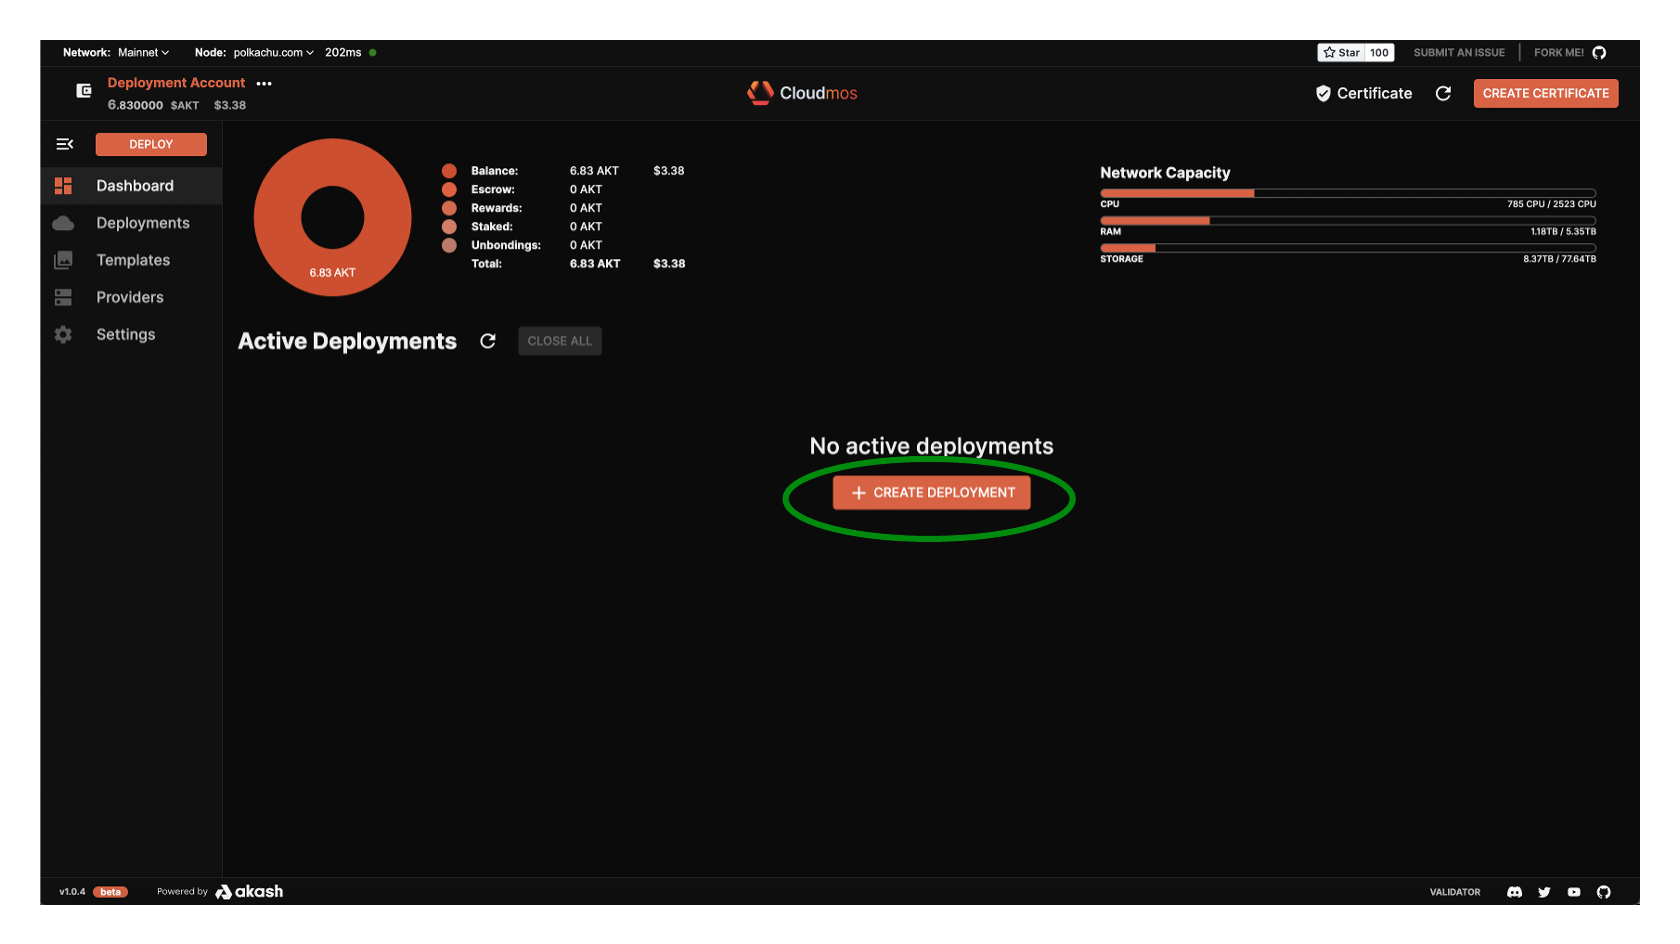
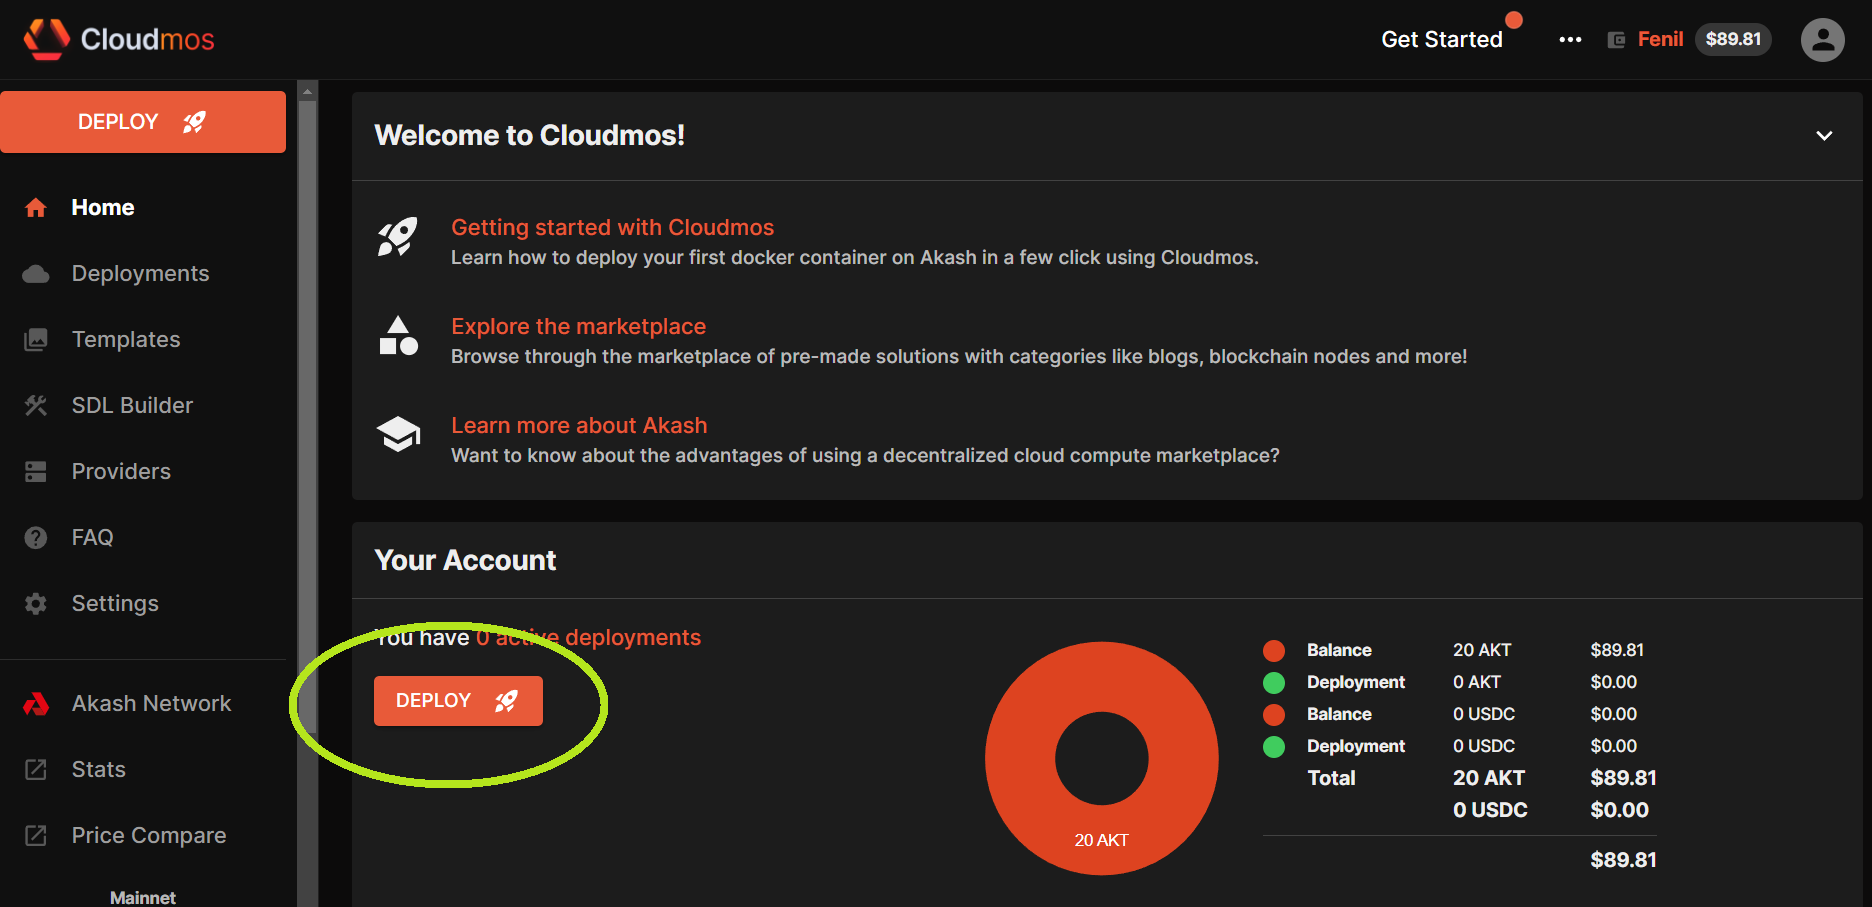
Update Console documentation with new images

Changed region(s): [[0.0, 0.0, 1.0, 1.0], [0.4333, 0.0926, 0.5262, 0.1235]]

diff --git a/src/content/Docs/deployments/cloudmos-deploy/index.md b/src/content/Docs/deployments/cloudmos-deploy/index.md
@@ -17,13 +17,13 @@ This guide will cover the following topics:
 
 ### Akash Wants to Spotlight Your Work
 
-Have an idea for a project to deploy on Akash? Already working on a project? Maybe you’ve already deployed a project (or many projects!) to the network?
+Do you have an idea for a project to deploy on Akash? Are you already working on a project? Maybe you’ve already deployed one or many projects to the network?
 
 We love seeing what our community is building. Once your deployment is live, head over to our Discord and share the details of your app in our [Deployments channel](https://discord.com/channels/747885925232672829/771909909335506955) and tag @Admin.
 
-Once you share your app, someone from the Akash team may reach out to spotlight your app across our newsletter, blog, and social media.
+After you share your app, someone from the Akash team may reach out to spotlight your app across our newsletter, blog, and social media.
 
-This is a great opportunity to connect with the team at Akash Network and to spotlight your work for our world-class community.
+This is a great opportunity to connect with the team at Akash Network and to showcase your work to our world-class community.
 
 ## Cloudmos Deploy Access
 
@@ -57,38 +57,34 @@ In this section we will use Cloudmos Deploy to launch an example Minecraft deplo
 
 #### **STEP 1 - Create the Deployment**
 
-- From the Dashboard/primary pane click the `CREATE DEPLOYMENT` button
+- From the Dashboard/primary pane click the `DEPLOY` button
 
 ![](../../assets/cloudCreateDeployment.png)
 
-#### **STEP 2 - Create Certficate**
-
-- A number of checks are performed to ensure necessary funds and certificates are available to launch a deployment.
-- If this is your first deployment with Cloudmos Deploy a `CREATE CERTIFICATE` prompt will be displayed. Select the `CREATE CERTIFICATE` button and accept transaction fee prompt from Keplr to proceed.
-
-![](../../assets/cloudmosCreateCert.png)
-
-**STEP 3 - Choose Deployment Template**
+**STEP 2 - Choose Deployment Template**
 
 - The tool provides several sample templates launch of popular applications
 - Select the `Minecraft` template for our initial deployment
 
 ![](../../assets/cloudmosSelectTemplate-1.png)
 
-#### **STEP 4 - Proceed with Deployment**
-
-- At this stage we could review/customize the Akash SDL deployment template if desired but in this example we will proceed with the default settings and by pressing the `DEPLOY` button
-
-![](../../assets/cloudmosProceedWithDeployment.png)
-
-#### **STEP 5 - SDL Verification**
+#### **STEP 3 - SDL Verification**
 
 - Screen will appear which provides an additional opportunity to customize the SDL but we will again proceed with no edits by pressing the `CREATE DEPLOYMENT` button
-- Subsequently accept the Deployment Deposit pop up which specifies that 5AKT will be placed into an escrow account for deployment cost and then the Keplr transaction fee prompt
 
 ![](../../assets/cloudmosSDLReview.png)
 
-#### **STEP 6 - Review/Accept Bid**
+#### **STEP 4 - Deployment Deposit**
+- Next, accept the Deployment Deposit popup, which indicates that 0.5 AKT will be placed into an escrow account to cover deployment costs. Then, proceed with confirming the Keplr transaction fee prompt.
+
+![](../../assets/DeploymentDeposit.png)
+
+#### **STEP 4 - Approve Tractions**
+- An approval transaction popup will appear in your Keplr/Leap wallet. Please approve it to continue.
+
+![](../../assets/ApproveTransaction.png)
+
+#### **STEP 5 - Review/Accept Bid**
 
 - After a minute or so a list of bids will display.&#x20;
 - Select the most affordable, preferred provider and then press `ACCEPT BID`
@@ -106,7 +102,6 @@ In this section we will use Cloudmos Deploy to launch an example Minecraft deplo
 - The `LEASES` tab confirms the successful deployment of our example Minecraft application
 
 ![](../../assets/cloudmosLeasesTab.png)
-![](../../assets/cloudmosLeasesTabWithURI.png)
 
 ## Manage Deployments
 
@@ -150,6 +145,8 @@ Closing a deployment is very simple.
 
 ![](../../assets/cloudmosDeploymentClose.png)
 
+> _**NOTE**_ - After closing the deployment, the remaining balance will be returned to your wallet.
+
 # Custom RPC Node
 
 Specify a custom RPC or API node within Cloudmos Deploy by using the steps outlined in this section.&#x20;
@@ -158,20 +155,14 @@ The custom node option can point to a RPC node we have created and manage oursel
 
 ### STEP 1 - Enable Custom Node Use
 
-- Begin by selecting the drop-down next to the current Node and then click the `Custom node`radio button
+- Begin by selecting the drop-down next to the current Node and then click the `Custom node` Toggle button
 
 ![](../../assets/cloudmosCustomNode.png)
 
-### STEP 2 - Edit the RPC and API Nodes
-
-Press the `EDIT` button to enter the screen where we can enter our preferred nodes
-
-![](../../assets/cloudmosSpecifyCustomNode.png)
-
-### STEP 3 - Specify Preferred RPC and API Nodes
+### STEP 2 - Specify Preferred RPC and API Nodes
 
 Use the `Api Endpoint` and `Rpc Endpoint` fields to define your own managed nodes or preferred public nodes.\
-\
+
 If you do not maintain your own nodes and want to select from a list of popular public nodes, choose from the RPC node list [here](https://github.com/akash-network/net/blob/master/mainnet/rpc-nodes.txt) and the API node list [here](https://github.com/akash-network/net/blob/master/mainnet/api-nodes.txt).
 
-![](../../assets/cloudmosAcceptCustomNodes.png)
+![](../../assets/cloudmosSpecifyCustomNode.png)
